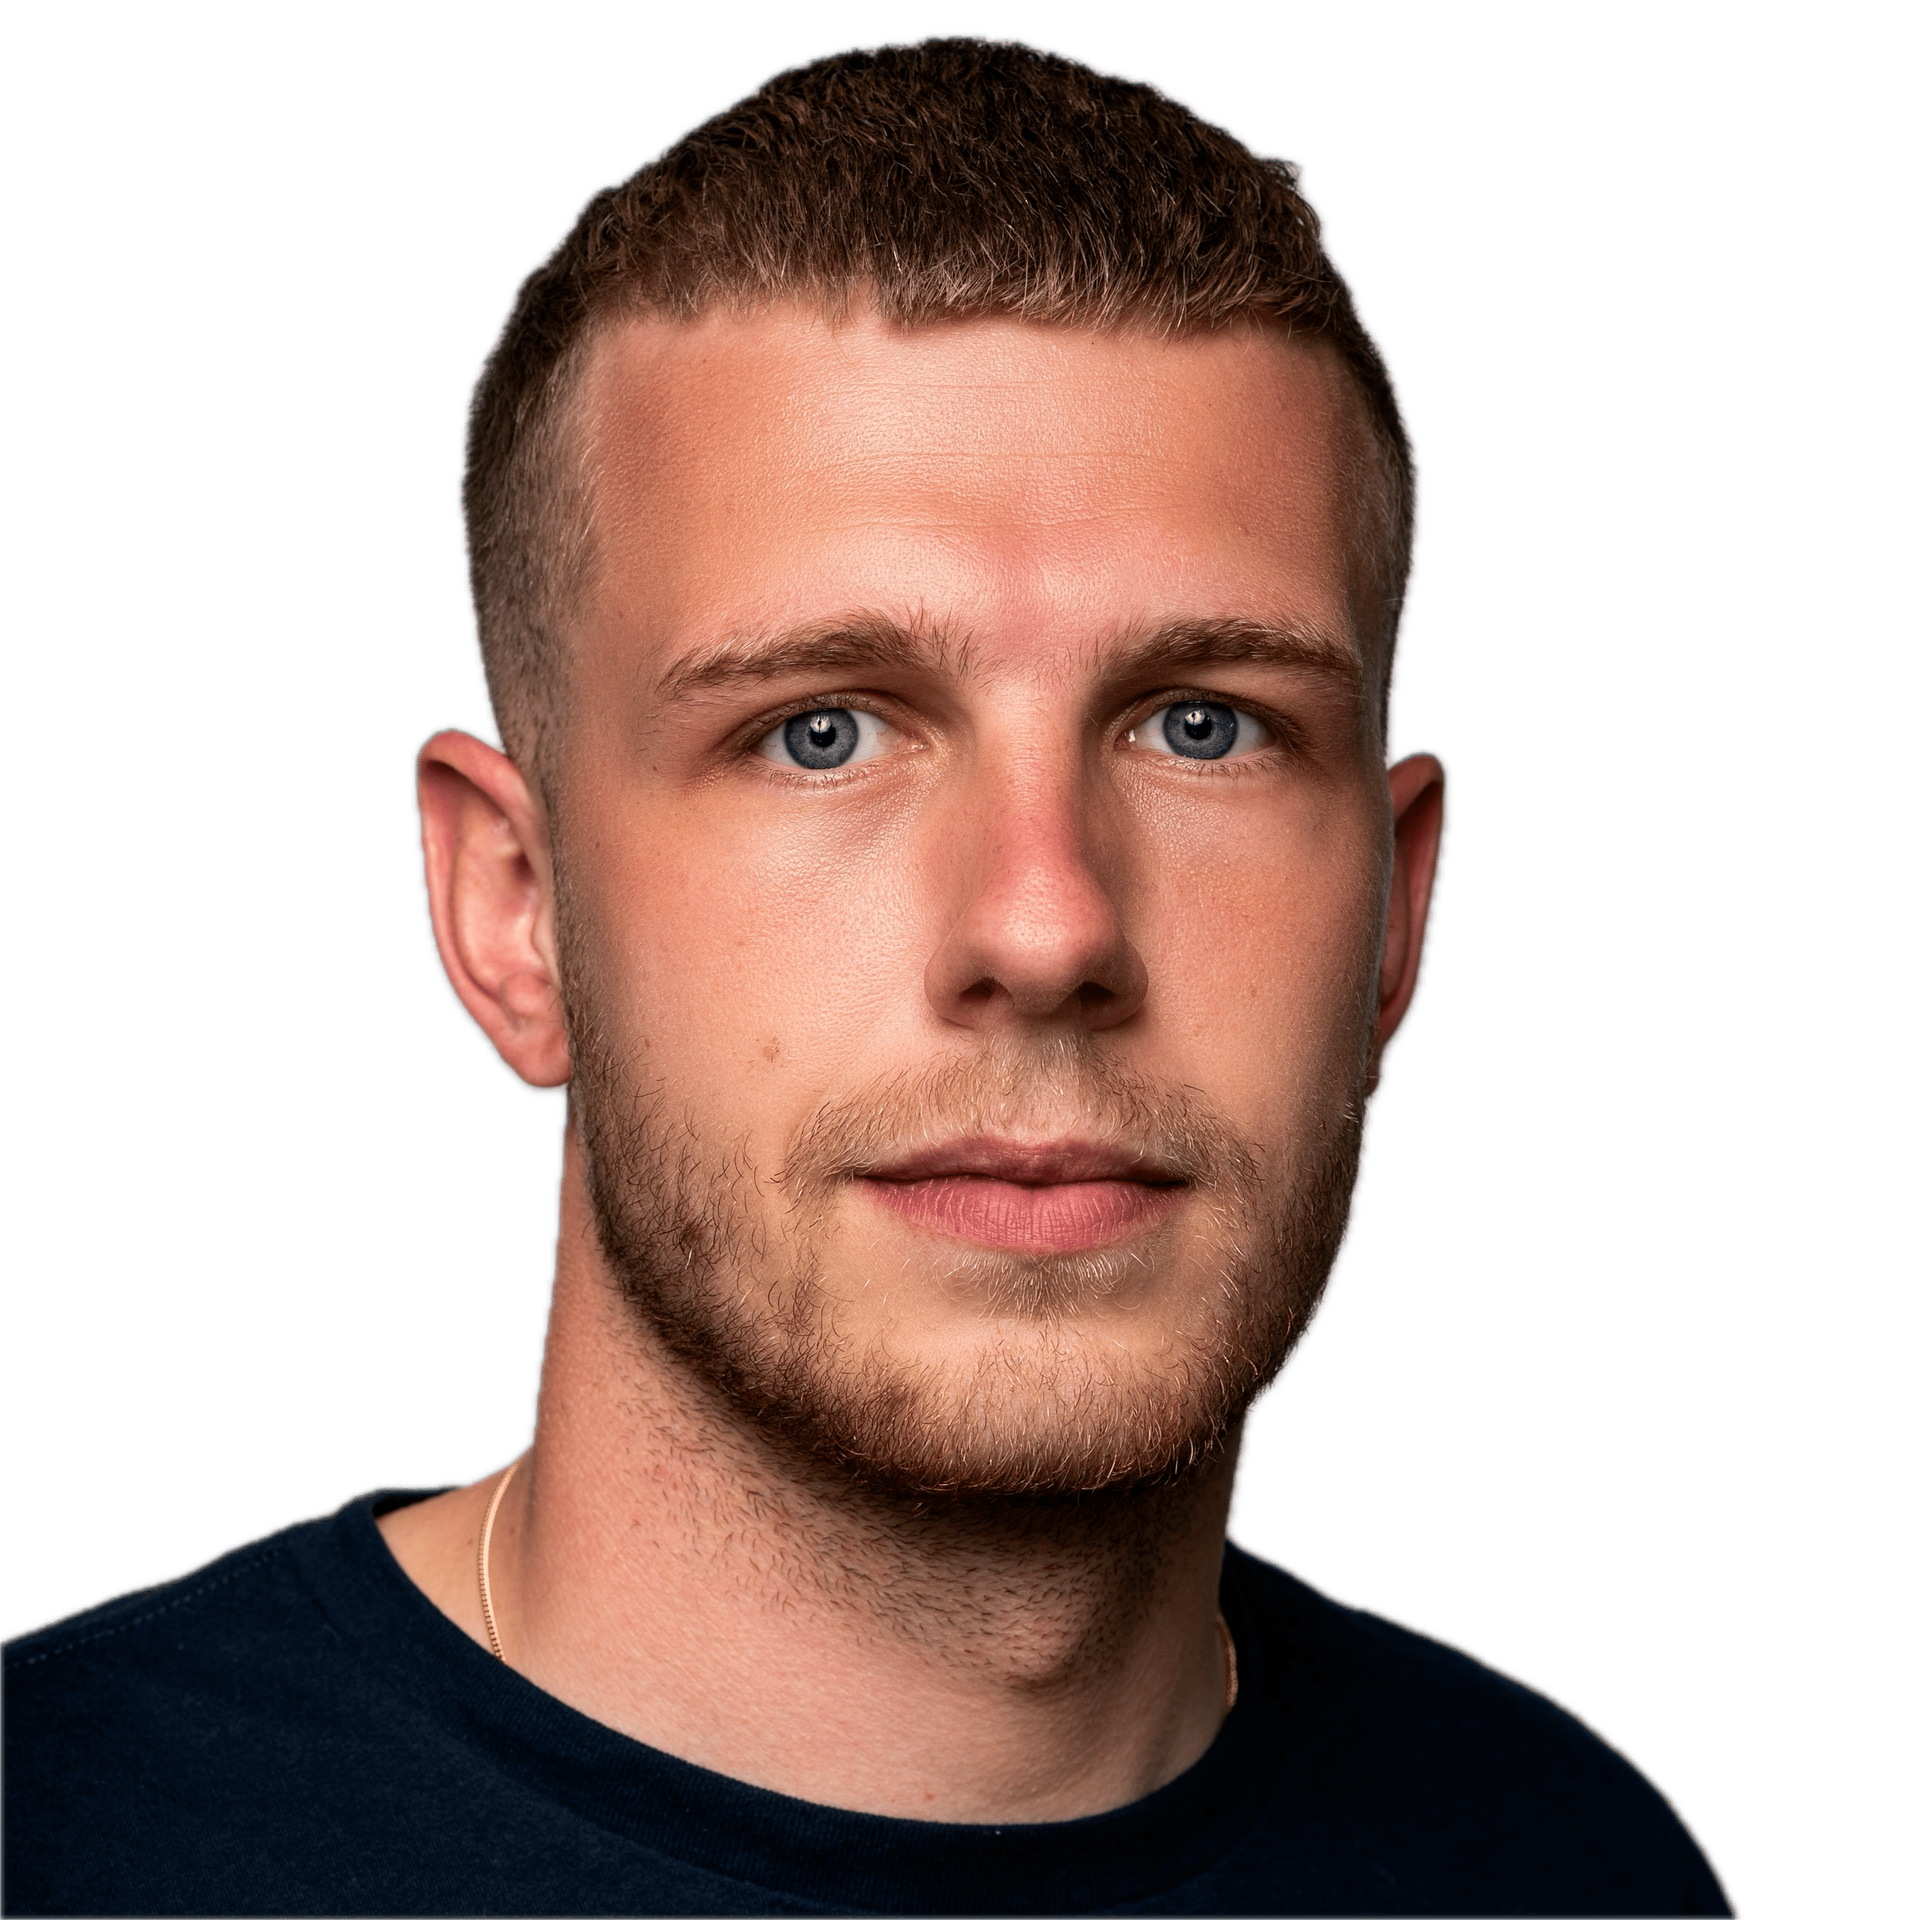
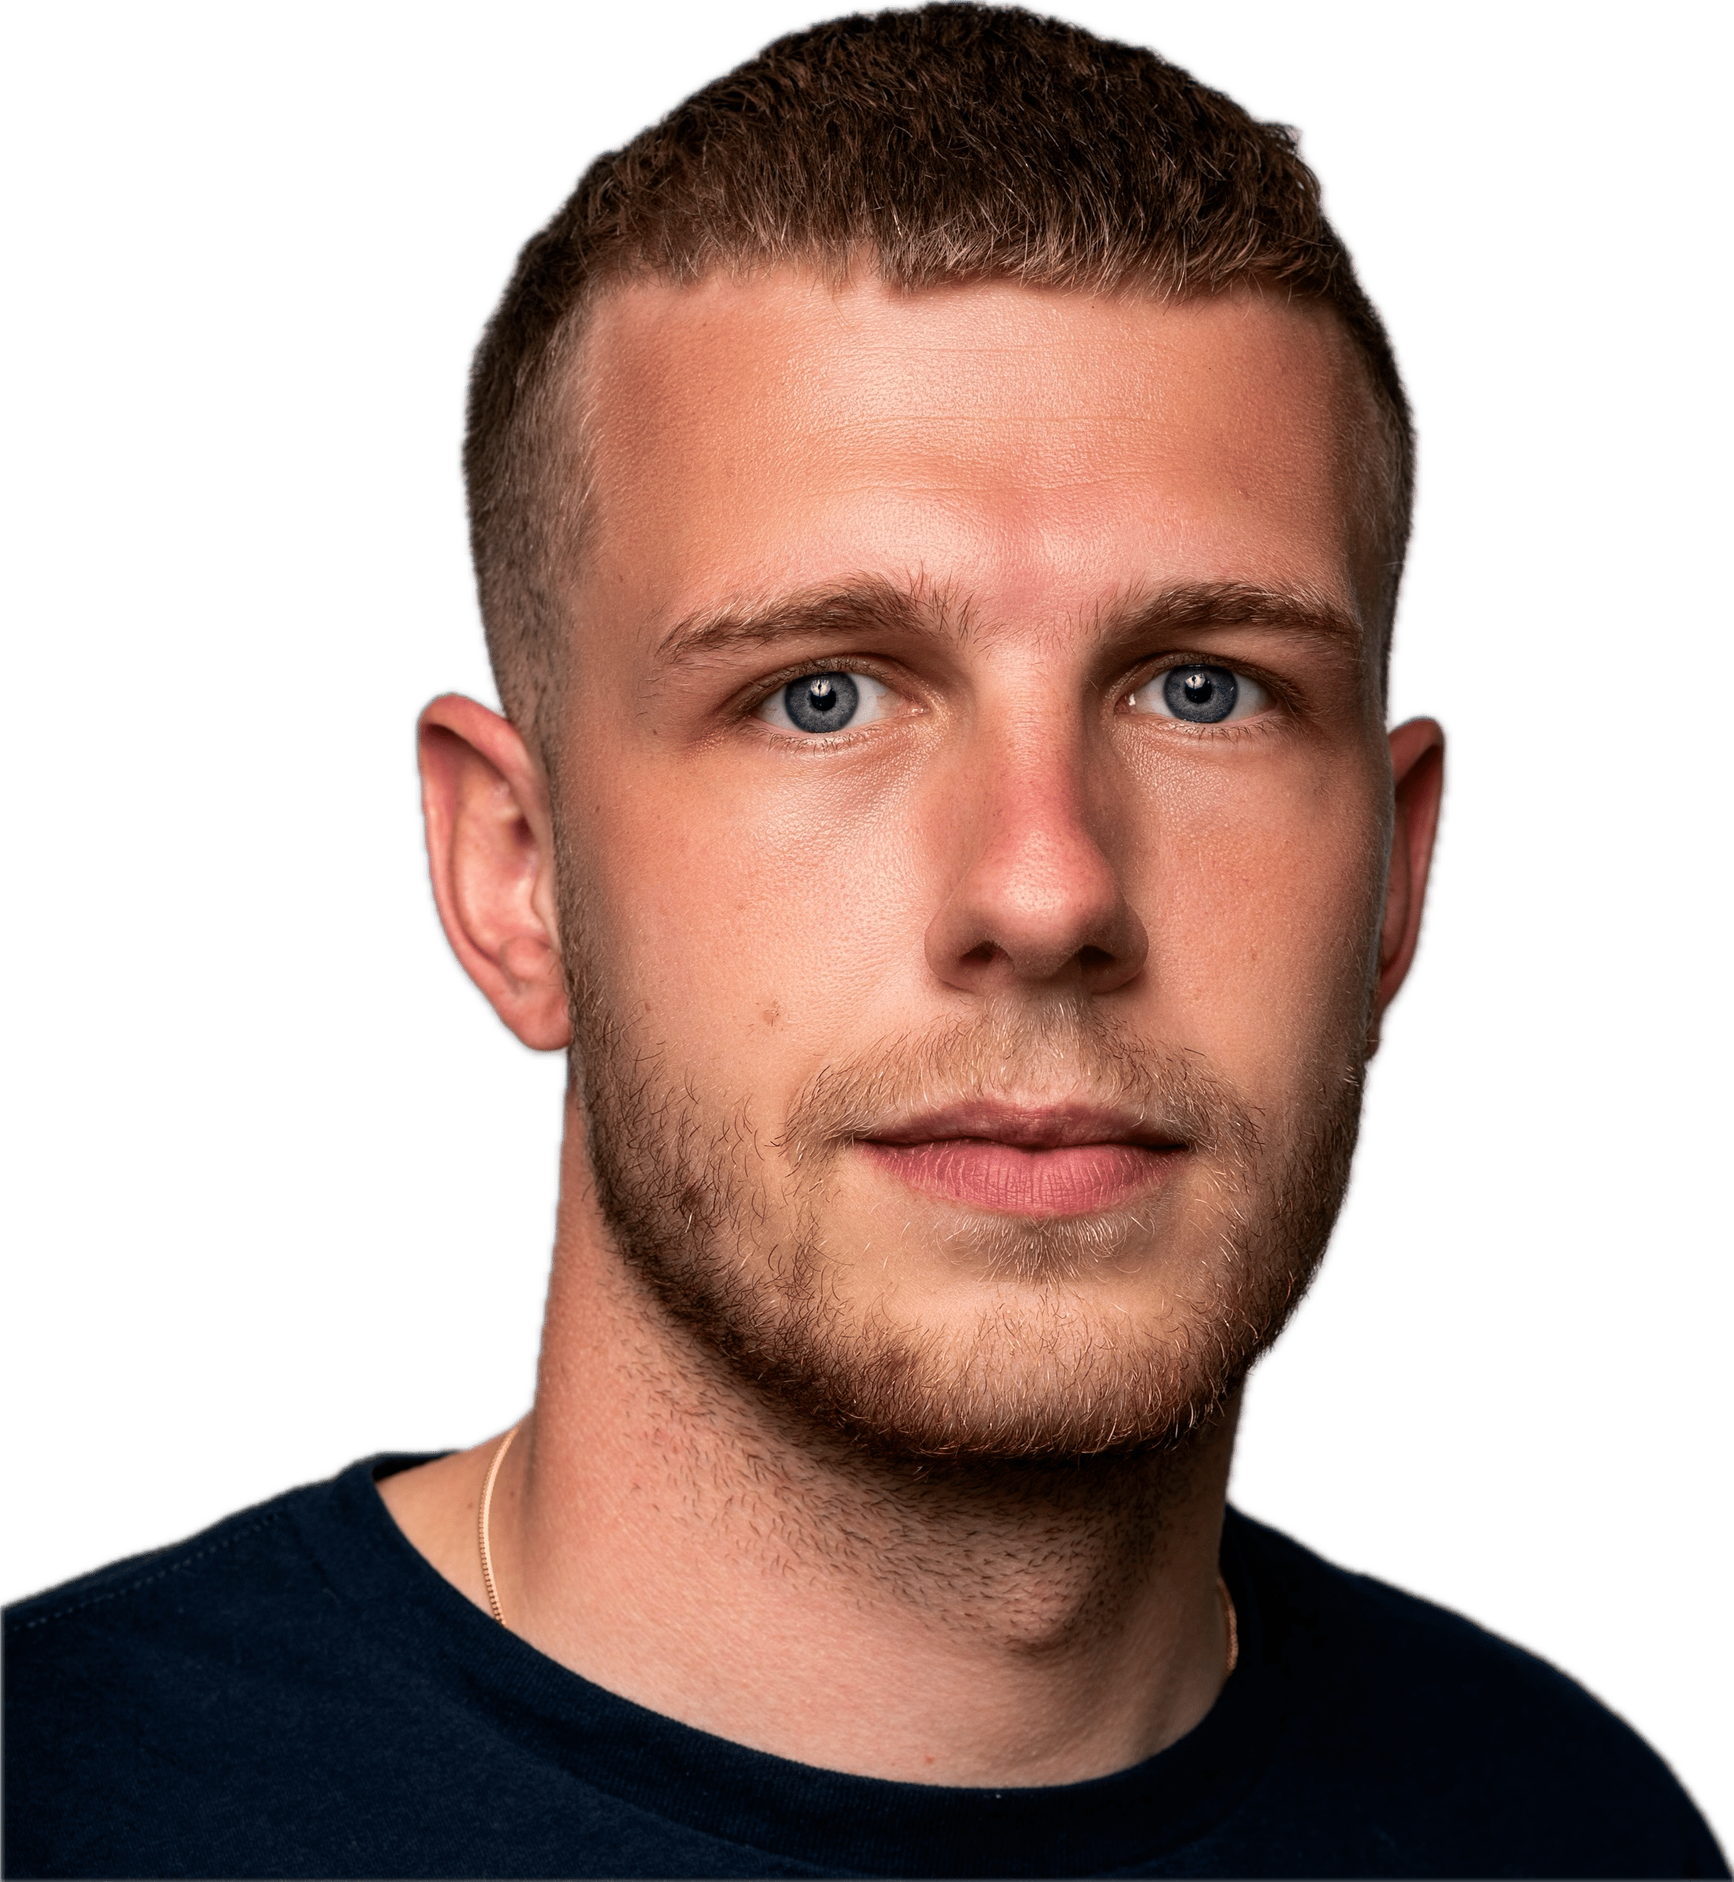
dvd colors animation

diff --git a/src/app/globals.css b/src/app/globals.css
@@ -6,7 +6,16 @@
   --background: #ffffff;
   --foreground: #171717;
 
-  --image-size: 200px;
+  --image-height: 220px;
+  --image-width: 200px;
+
+  --duration-x-value: 2;
+  --duration-y-value: 4.5;
+
+  --duration-x: calc(var(--duration-x-value) * 1s);
+  --duration-y: calc(var(--duration-y-value) * 1s);
+
+  --animation-start: 5s;
 }
 
 @media (prefers-color-scheme: dark) {
@@ -33,85 +42,58 @@ main {
   }
 }
 
-.photo {
+.me {
+  height: var(--image-height);
+  width: var(--image-width);
+
+  animation: color calc(var(--duration-x) * 10) steps(10, jump-start) infinite;
+  animation-delay: var(--animation-start);
+}
+
+.me-container {
   display: block;
   position: absolute;
   z-index: -1;
-  height: var(--image-size);
-  width: var(--image-size);
+  top: 10vh;
 
-  -webkit-animation: moveX 4s linear 0s infinite alternate,
-    moveY 3.4s linear 0s infinite alternate;
-  -moz-animation: moveX 4s linear 0s infinite alternate,
-    moveY 3.4s linear 0s infinite alternate;
-  -o-animation: moveX 4s linear 0s infinite alternate,
-    moveY 3.4s linear 0s infinite alternate;
-  animation: moveX 4s linear 0s infinite alternate,
-    moveY 3.4s linear 0s infinite alternate;
+  animation: moveX var(--duration-x) linear 0s infinite alternate,
+    moveY var(--duration-y) linear 0s infinite alternate,
+    colorContainer calc(var(--duration-y) * 10) steps(10, jump-start) infinite;
+  animation-delay: var(--animation-start);
 }
 
-@-webkit-keyframes moveX {
-  from {
-    left: 0;
-  }
-  to {
-    left: calc(100vw - var(--image-size));
-  }
-}
-@-moz-keyframes moveX {
-  from {
-    left: 0;
-  }
-  to {
-    left: calc(100vw - var(--image-size));
-  }
-}
-@-o-keyframes moveX {
-  from {
-    left: 0;
-  }
-  to {
-    left: calc(100vw - var(--image-size));
-  }
-}
 @keyframes moveX {
   from {
-    left: 0;
+    left: env(safe-area-inset-left);
   }
   to {
-    left: calc(100vw - var(--image-size));
+    left: calc(100vw - var(--image-width) - env(safe-area-inset-right));
   }
 }
 
-@-webkit-keyframes moveY {
-  from {
-    top: 0;
-  }
-  to {
-    top: calc(100vh - var(--image-size));
-  }
-}
-@-moz-keyframes moveY {
-  from {
-    top: 0;
-  }
-  to {
-    top: calc(100vh - var(--image-size));
-  }
-}
-@-o-keyframes moveY {
-  from {
-    top: 0;
-  }
-  to {
-    top: calc(100vh - var(--image-size));
-  }
-}
 @keyframes moveY {
   from {
-    top: 0;
+    top: env(safe-area-inset-top);
   }
   to {
-    top: calc(100vh - var(--image-size));
+    top: calc(100vh - var(--image-height) - env(safe-area-inset-bottom));
+  }
+}
+
+@keyframes color {
+  from {
+    filter: hue-rotate(0deg);
+  }
+  to {
+    filter: hue-rotate(360deg);
+  }
+}
+
+@keyframes colorContainer {
+  from {
+    filter: hue-rotate(0deg);
+  }
+  to {
+    filter: hue-rotate(360deg);
   }
 }

diff --git a/src/app/page.tsx b/src/app/page.tsx
@@ -1,18 +1,11 @@
 import Image from "next/image";
-import me from "../../public/me.png";
+import { MeImage } from "@/components/MeImage";
 
 export default function Home() {
   return (
     <div className="grid grid-rows-[20px_1fr_20px] items-center justify-items-center min-h-screen p-8 pb-20 gap-16 sm:p-20 font-[family-name:var(--font-geist-sans)]">
       <main className="flex flex-col gap-8 row-start-2 items-center sm:items-start">
-        <Image
-          className="photo"
-          src={me}
-          alt="Photo of Hugo Pérard"
-          width={200}
-          height={200}
-          priority
-        />
+        <MeImage />
         <div className="flex flex-col">
           <h1>
             Hi, I&apos;m <strong>Hugo Pérard</strong>

diff --git a/src/components/MeImage.tsx b/src/components/MeImage.tsx
@@ -1,0 +1,11 @@
+"use client";
+import Image from "next/image";
+import me from "../../public/me.png";
+
+export const MeImage = () => {
+  return (
+    <div className="me-container">
+      <Image className="me" src={me} alt="Photo of Hugo Pérard" priority />
+    </div>
+  );
+};
